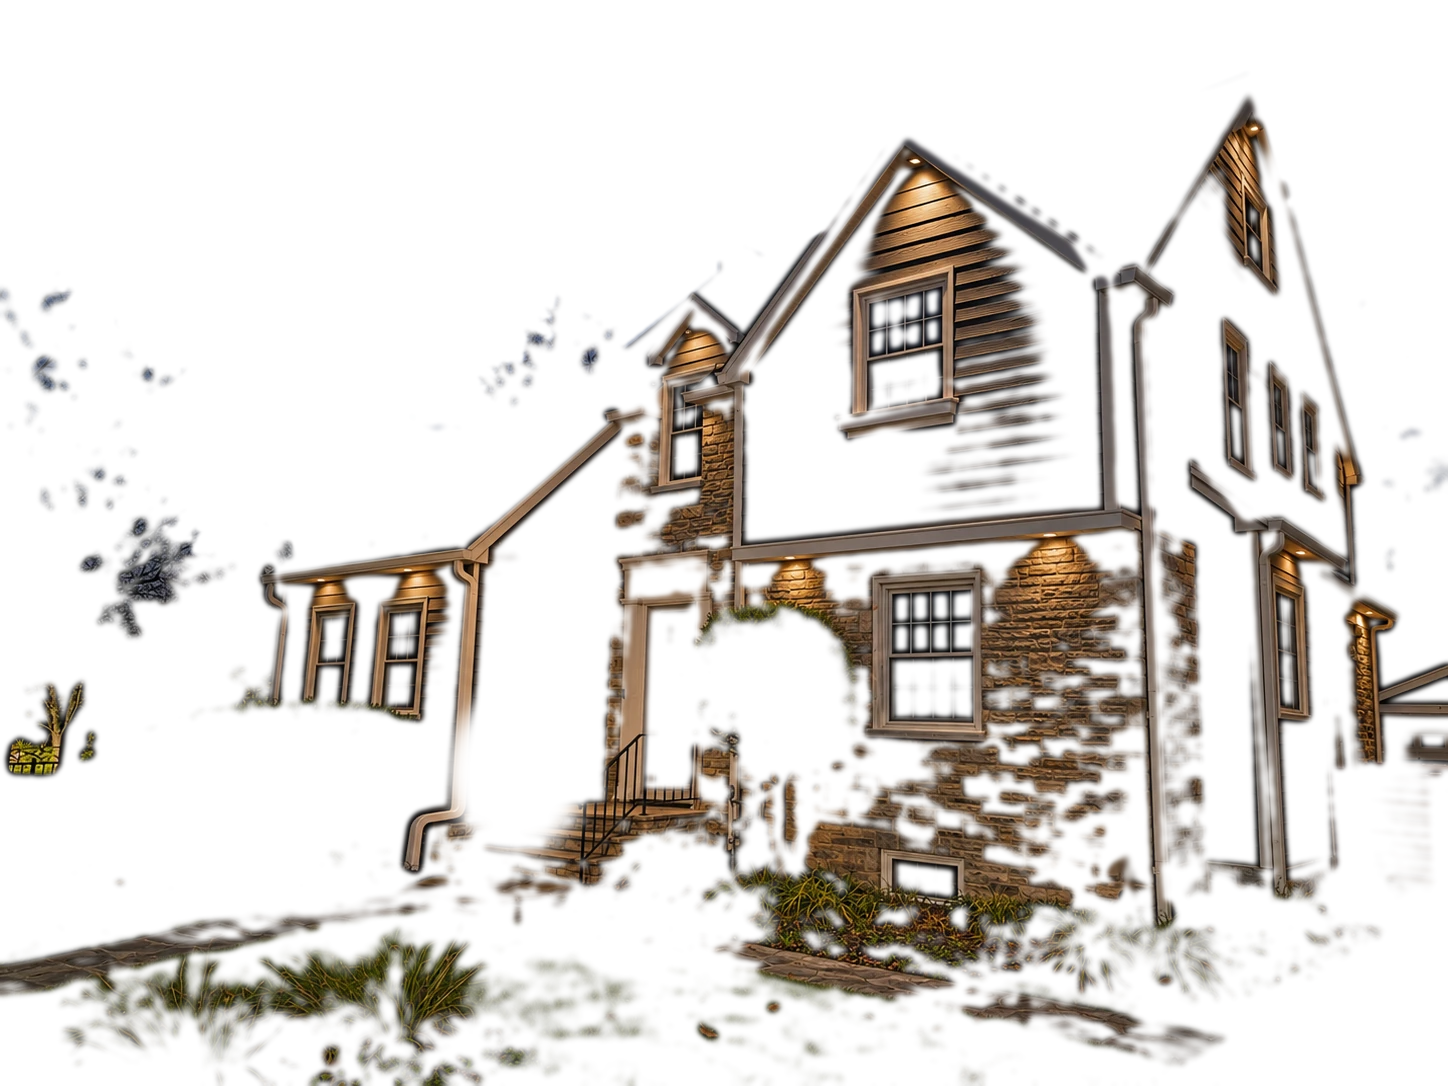
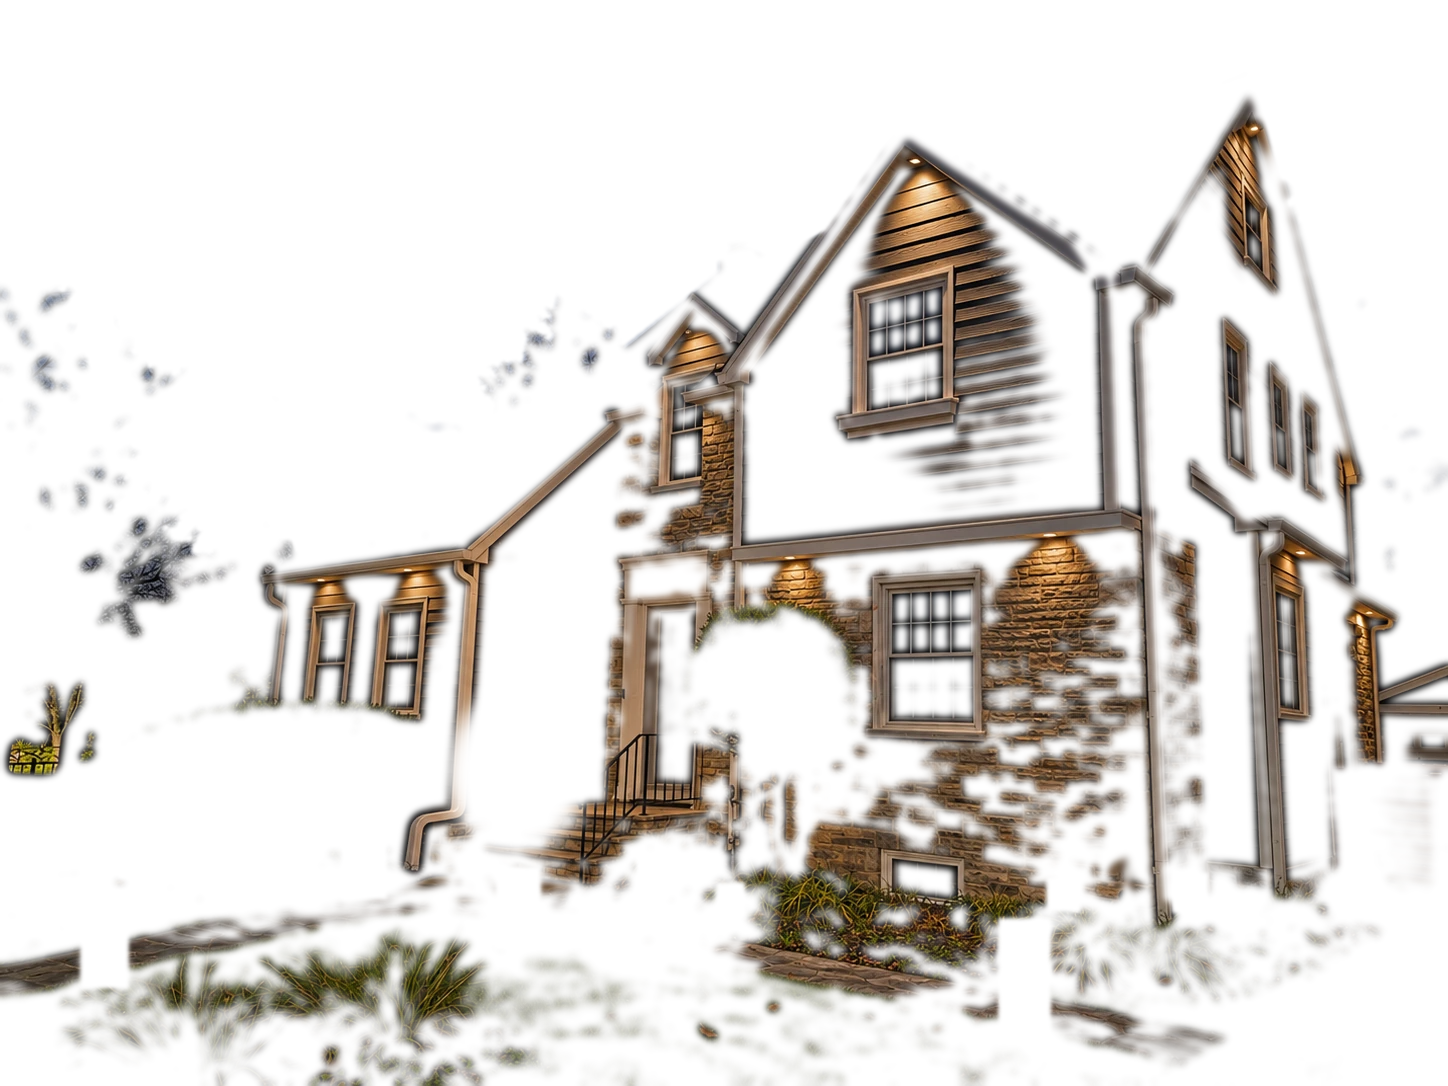
Unlit house from the real night photo (no fixtures); path hardware only with path layer; Choose for me
Claude-Session: https://claude.ai/code/session_01477XfrkwMA9gQYivJ4i7xH

diff --git a/src/styles/global.css b/src/styles/global.css
@@ -279,3 +279,11 @@ main a, main button { pointer-events: auto; }
 }
 @keyframes ping { 0% { transform: scale(1); opacity: 0.9; } 100% { transform: scale(2.8); opacity: 0; } }
 @media (prefers-reduced-motion: reduce) { .spot i::after { animation: none; opacity: 0; } }
+
+/* Choose for me: a quiet text button under the switches. */
+.pick {
+  font: 500 14px var(--sans); color: var(--cream); background: none; border: 0; padding: 4px 0; cursor: pointer;
+  border-bottom: 1px solid var(--brass); transition: color 240ms var(--ease), border-color 240ms var(--ease);
+}
+.pick::before { content: '\2726'; color: var(--lamp); margin-right: 8px; }
+.pick:hover { color: var(--lamp); border-color: var(--lamp); }

diff --git a/tools/build_night_layers.py b/tools/build_night_layers.py
@@ -15,19 +15,35 @@ lin=lambda a:(a.astype(np.float32)/255)**2.2
 enc=lambda a:(np.clip(a,0,1)**(1/2.2)*255).astype(np.uint8)
 L={k:lin(v) for k,v in m.items()}
 # Unlit base: darkest value any mockup shows for each pixel.
-# The soffit mockup (darker siding) is left out of the base.
-mn=np.minimum.reduce([L['path'],L['stone'],L['holiday']])
-# One crisp source for the unlit house: the stone mockup, except where its own
-# uplights fall, which come from the darkest of the set. A per-pixel minimum
-# everywhere smeared the siding laps (owner caught this).
 lumf=lambda a:a@np.array([.2126,.7152,.0722],np.float32)
-own=cv2.GaussianBlur(np.clip((lumf(L['stone'])-lumf(mn)-0.004)/0.02,0,1),(0,0),6)
-own=np.clip(own*2.5,0,1)[...,None]
-base=L['stone']*(1-own)+mn*own
+# The unlit house is the real night photograph (it lines up with the mockups
+# to a tenth of a pixel). It has no fixtures at all, and its siding laps and
+# stone joints are real. Its tone is graded to the mockups' look: the
+# low-frequency ratio between the stone mockup and the photo is measured
+# where the mockup is unlit, then spread smoothly over the whole frame.
+R=lin(real)
+mn=np.minimum.reduce([L['path'],L['stone'],L['holiday'],L['eave']])
+unlit=(lumf(L['stone'])-lumf(mn)<0.003).astype(np.float32)
+ratio=np.clip((L['stone']+0.002)/(R+0.002),0.05,6.0)
+lr=np.log(ratio)
+ok=unlit*((np.abs(lr-np.median(lr,axis=(0,1)))<1.2).all(-1)).astype(np.float32)
+def nconv(v,wt,sig):
+    return cv2.GaussianBlur(v*wt,(0,0),sig)/(cv2.GaussianBlur(wt,(0,0),sig)+1e-6)
+grade=np.dstack([np.exp(nconv(lr[...,c],ok,28)) for c in range(3)])
+base=R*grade
+# Yard sign: cover the painted-out patch with stone cloned from its left.
+x0,y0,x1,y1=1096,816,1158,920; sx=64
+a=np.zeros((y1-y0,x1-x0),np.float32); a[6:-6,6:-6]=1; a=cv2.GaussianBlur(a,(0,0),3)[...,None]
+base[y0:y1,x0:x1]=base[y0:y1,x0-sx:x1-sx]*a+base[y0:y1,x0:x1]*(1-a)
+# The photo has lights on in two rooms; the mockups do not. Dim the glass.
+for (x0,y0,x1,y1) in [(884,574,976,722),(888,842,962,892),(1272,572,1312,716)]:
+    a=np.zeros((H,W),np.float32); cv2.rectangle(a,(x0,y0),(x1,y1),1,-1); a=cv2.GaussianBlur(a,(0,0),2)
+    hot=np.clip((lumf(base)-0.02)/0.03,0,1)*a
+    base=base*(1-hot[...,None])+mn*hot[...,None]
 # Where mockups disagree about objects (door, window box), keep one source.
 for (x0,y0,x1,y1) in [(628,596,712,790),(815,372,990,470)]:
     a=np.zeros((H,W),np.float32); cv2.rectangle(a,(x0,y0),(x1,y1),1,-1); a=cv2.GaussianBlur(a,(0,0),6)[...,None]
-    base=base*(1-a)+L['stone']*a
+    pass
 # Sky from the stone mockup.
 s=m['stone']; hsv=cv2.cvtColor(s,cv2.COLOR_RGB2HSV)
 cand=((s[...,2].astype(int)>s[...,0].astype(int)+10)&(hsv[...,2]>25)).astype(np.uint8)
@@ -38,17 +54,45 @@ sky=cv2.GaussianBlur(sky,(0,0),1.5)[...,None]
 base=base*(1-sky)+L['stone']*sky
 lum=lambda a:a@np.array([.2126,.7152,.0722],np.float32)
 layers={}
+logl=lambda a:np.log(lumf(a)+0.002)
+hp=lambda a:logl(a)-cv2.GaussianBlur(logl(a),(0,0),4)
+bulbnear=None
+masks={}
+mailbox=np.zeros((H,W),np.float32); cv2.ellipse(mailbox,(516,772),(70,82),0,0,360,1,-1); mailbox=cv2.GaussianBlur(mailbox,(0,0),9)
+# Light fixtures drawn in the path mockup (posts, caps, small cans), traced
+# by hand. They belong to the path layer only, so with nothing switched on
+# there is no hardware on the property at all.
+POSTS=[(86,898,122,984),(124,836,142,874),(348,828,380,894),(501,874,534,944),(642,864,662,894),
+       (1004,926,1044,1038),(1052,884,1074,908),(1178,880,1202,908),(722,890,738,912)]
 for k in L:
-    d=np.clip(L[k]-base,0,None)*(1-sky)
-    # Lit mask: where this mockup is clearly brighter than the unlit house.
-    # Inside it the page shows the mockup itself, so lap shadows and stone
-    # joints under the light stay exactly as the mockup drew them.
-    w=np.clip((cv2.GaussianBlur(lum(d),(0,0),3)-0.004)/0.022,0,1); w=w*w*(3-2*w)
-    w=cv2.GaussianBlur(w,(0,0),2)*(1-sky[...,0])
-    if True:  # the post by the steps is a mailbox, not a lantern: it never lights, in any layer
-        a=np.zeros((H,W),np.float32); cv2.ellipse(a,(516,772),(70,82),0,0,360,1,-1); w*=(1-cv2.GaussianBlur(a,(0,0),9))
-    layers[k]=d*w[...,None]
-    rgba=np.dstack([enc(L[k]),(w*255).astype(np.uint8)])
+    # Lit mask: light this mockup adds over the darkest of the set, so the
+    # mockups' shared look (white trim, grass) never counts as light.
+    d=np.clip(L[k]-mn,0,None)*(1-sky)
+    w=np.clip((cv2.GaussianBlur(lumf(d),(0,0),3)-0.005)/0.025,0,1); w=w*w*(3-2*w)
+    w=cv2.GaussianBlur(w,(0,0),3)*(1-sky[...,0])
+    if k=='path':
+        pm=np.zeros((H,W),np.float32)
+        for (x0,y0,x1,y1) in POSTS: cv2.rectangle(pm,(x0,y0),(x1,y1),1,-1)
+        w=np.maximum(w,cv2.GaussianBlur(pm,(0,0),1.5))
+    else:
+        # Other mockups' copies of path hardware stay out of their layers.
+        pm=np.zeros((H,W),np.float32)
+        for (x0,y0,x1,y1) in POSTS: cv2.rectangle(pm,(x0-6,y0-8),(x1+6,y1+4),1,-1)
+        w*=1-cv2.GaussianBlur(pm,(0,0),2)
+    w*=(1-mailbox)
+    masks[k]=w
+# The holiday mockup also has the path and stone lighting switched on. The
+# holiday layer keeps only its own lights: strings, nets, wreath and box.
+hl=lumf(np.clip(L['holiday']-mn,0,None)); hb=cv2.GaussianBlur(hl,(0,0),1.0)
+near=cv2.GaussianBlur(((hb-cv2.GaussianBlur(hl,(0,0),7))>0.12).astype(np.float32),(0,0),7)
+near=np.clip(near*4,0,1)
+masks['holiday']*=1-np.maximum(masks['path'],masks['stone'])*(1-near)
+# The door stays the real door in every state (the holiday mockup repainted it).
+a=np.zeros((H,W),np.float32); cv2.rectangle(a,(626,594),(714,792),1,-1); masks['holiday']*=1-cv2.GaussianBlur(a,(0,0),3)
+for k in L:
+    w=masks[k]
+    layers[k]=np.clip(L[k]-mn,0,None)*w[...,None]
+    rgba=np.dstack([enc(L[k]),(np.clip(w,0,1)*255).astype(np.uint8)])
     Image.fromarray(rgba,'RGBA').save(OUT+f'light-{k}.webp',quality=90,method=6,exact=True)
 Image.fromarray(enc(base)).save(OUT+'base.webp',quality=92,method=6)
 Image.fromarray(real).save(OUT+'real.webp',quality=86,method=6)
